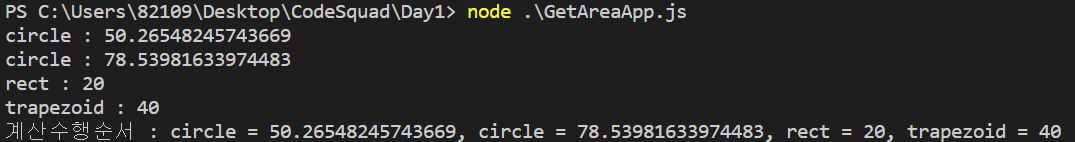
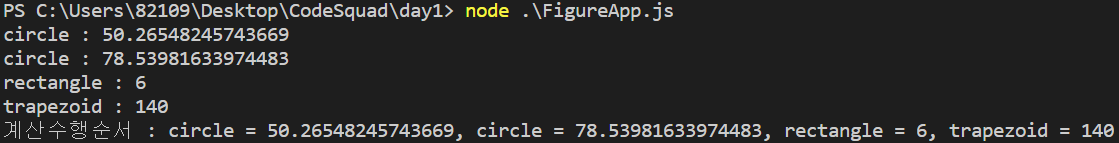
Refactoring :새 class FigureApp,  전역변수 executionSequence를 class안으로, getCircle()메서드도 사용가능하게 변경

diff --git a/Day1/FigureApp.js b/Day1/FigureApp.js
@@ -1,0 +1,50 @@
+function FigureApp() {
+    this.executionSequence = [];
+};
+
+FigureApp.prototype.getArea = function(sort, arg1, arg2, arg3) {
+    if(sort === 'circle') {
+        this.getCircle(arg1, arg2);
+    } else if (sort === 'rect') {
+        this.getRectangle(arg1,arg2);
+    } else if (sort === 'trapezoid') {
+        this.getTrapezoid(arg1, arg2, arg3);
+    }
+};
+
+FigureApp.prototype.getCircle = function(radius, radius2) {
+    var sum = radius*radius*Math.PI;
+    for(var i=radius+1; i<=radius2; i++) {
+        sum += i*i*Math.PI;
+    }
+    this.endCaclculate('circle', sum);
+};
+
+FigureApp.prototype.getRectangle = function(base, height) {
+    this.endCaclculate('rectangle', base*height);
+};
+
+FigureApp.prototype.getTrapezoid = function(base0, base1, height) {
+    this.endCaclculate('trapezoid', base0*base1*height/2);
+};
+
+FigureApp.prototype.endCaclculate = function(sort, result) {
+    this.executionSequence.push(sort+' = '+result);
+    console.log(sort+' : '+result);
+};
+
+FigureApp.prototype.printExecutionSecuence = function() {
+    var textArr = [];
+    this.executionSequence.forEach(function(elements){
+        textArr.push(elements);
+    })
+    console.log('계산수행순서 : '+textArr.join(', '))
+};
+
+let test = new FigureApp();
+
+test.getArea('circle', 4);
+test.getCircle(3, 4);
+test.getArea('rect', 2, 3);
+test.getArea('trapezoid', 4, 7, 10);
+test.printExecutionSecuence();
